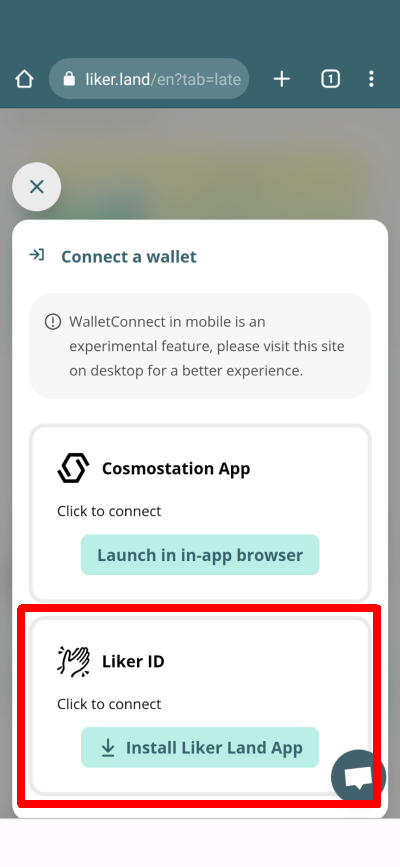
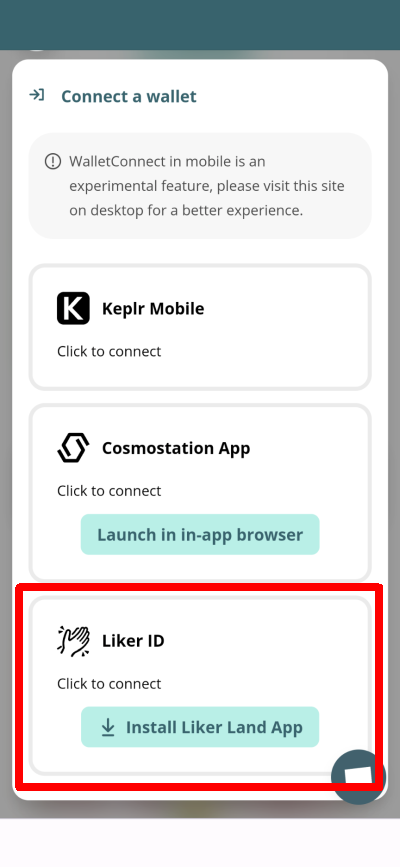
GITBOOK-4502: Collect Writing NFT on mobile

diff --git a/general-guides/writing-nft/collect-writing-nft/collect-writing-nft-on-mobile.md b/general-guides/writing-nft/collect-writing-nft/collect-writing-nft-on-mobile.md
@@ -44,6 +44,40 @@ If you encounter problems during the purchase process, please go to the settings
 
 ## Collect Writing NFT on Mobile Browser
 
+### Via Keplr Mobile
+
+**Step 1**: Log in to Keplr Mobile and use the mobile browser to browse the NFT that you want to collect. Click "Collect Now," "Collect," or the current NFT price.
+
+<figure><img src="../../../.gitbook/assets/Collect Writing NFT Keplr Mobile 1-en.png" alt=""><figcaption><p>Click "Collect Now"</p></figcaption></figure>
+
+**Step 2**: The Collect NFT page will appear. You can choose to "Leave a signed message to creator" (optional) or simply click "Pay by LIKE". If you decide to leave a message, enter it in the provided field.
+
+<figure><img src="../../../.gitbook/assets/Collect Writing NFT Keplr Mobile 2-en.png" alt=""><figcaption><p>Leave a signed message to creator and Pay by LIKE</p></figcaption></figure>
+
+**Step 3**: A pop-up window will appear. Click "Keplr Mobile" to log in.
+
+<figure><img src="../../../.gitbook/assets/Collect Writing NFT Keplr Mobile 3-en.png" alt=""><figcaption><p>A pop-up window will appear. Click "Keplr Mobile" to log in</p></figcaption></figure>
+
+**Step 4**: A Keplr Mobile window will pop up. Click "Approve".
+
+<figure><img src="../../../.gitbook/assets/Collect Writing NFT Keplr Mobile 4.png" alt=""><figcaption><p>A Keplr Mobile window will pop up. Click "Approve"</p></figcaption></figure>
+
+**Step 5**. The Collecting NFT page will appear in the browser.
+
+<figure><img src="../../../.gitbook/assets/Collect Writing NFT Keplr Mobile 5-en.png" alt=""><figcaption><p>The Collecting NFT page will appear in the browser</p></figcaption></figure>
+
+**Step 6**: Return to the Keplr Mobile and click "Approve".
+
+<figure><img src="../../../.gitbook/assets/Collect Writing NFT Keplr Mobile 6.png" alt=""><figcaption><p>Return to the Keplr Mobile and click "Approve"</p></figcaption></figure>
+
+**Step 7**: Go back to the browser, and the Collecting NFT page will appear.
+
+<figure><img src="../../../.gitbook/assets/Collect Writing NFT Keplr Mobile 7-en.png" alt=""><figcaption><p>The Collecting NFT page appears in the browser</p></figcaption></figure>
+
+**Step 8**: After the payment is successful, you can view the purchased NFT on your bookshelf or click "View the NFT."
+
+<figure><img src="../../../.gitbook/assets/Collect Writing NFT Keplr Mobile 8-en.png" alt=""><figcaption><p>Click "View the NFT</p></figcaption></figure>
+
 ### **Via the Cosmostation app**
 
 #### **Tutorial**
@@ -66,7 +100,7 @@ If you encounter problems during the purchase process, please go to the settings
 
 **Step 4**: A Liker Land app window will pop up. Click "Approve".
 
-<figure><img src="../../../.gitbook/assets/Collect Writing NFT Liker land app 4-en.png" alt=""><figcaption><p>The Liker Land app window pops up, click "Approve"</p></figcaption></figure>
+<figure><img src="../../../.gitbook/assets/Collect Writing NFT Liker land app 4-en.png" alt=""><figcaption><p>A Liker Land app window will pop up. Click "Approve"</p></figcaption></figure>
 
 **Step 5**: You will be redirected back to the browser. Click "CONFIRM" to proceed.
 
@@ -91,8 +125,6 @@ If you encounter problems during the purchase process, please go to the settings
 **Step 10**: After the payment is successful, you can view the purchased NFT on your bookshelf or click "View the NFT."
 
 <figure><img src="../../../.gitbook/assets/Collect Writing NFT Liker land app 10-en.png" alt=""><figcaption><p>Click "View the NFT</p></figcaption></figure>
-
-
 
 {% hint style="warning" %}
 If you encounter problems during the purchase process, please go to the settings in the lower right corner and choose "Wallet Connect" to delete the existing link and purchase again.
